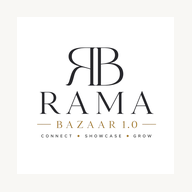
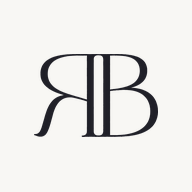
auto-commit for 6581f962-8773-4887-ab63-8e82492fd1b0

Changed region(s): [[0.1562, 0.2188, 0.8438, 0.7188]]

diff --git a/frontend/src/components/Logo.jsx b/frontend/src/components/Logo.jsx
@@ -1,17 +1,114 @@
 import React from "react";
 
-// Use the actual brand logo image. We accept a `variant` prop to switch
-// between the light-background (default) and dark-background versions.
-export default function Logo({ size = "md", variant = "light", className = "" }) {
-  const heights = { sm: 44, md: 88, lg: 140, xl: 220 };
-  const src = variant === "dark" ? "/logo-dark.png" : "/logo.png";
-  return (
+/**
+ * Rama Bazaar 1.0 — Brand Lockup
+ *
+ * Matches the original logo hierarchy:
+ *   1. RB serif emblem
+ *   2. "RAMA" — large serif, charcoal, wide tracking
+ *   3. "—  BAZAAR 1.0  —" — smaller serif sub-mark in gold with hairline rules
+ *   4. CONNECT • SHOWCASE • GROW — small caps tagline
+ */
+const SIZES = {
+  sm: { emblem: 28, rama: 18, sub: 8,  tagline: 7,  gap: 5,  rule: 14 },
+  md: { emblem: 70, rama: 38, sub: 13, tagline: 9,  gap: 9,  rule: 24 },
+  lg: { emblem: 108, rama: 56, sub: 18, tagline: 10, gap: 12, rule: 36 },
+  xl: { emblem: 150, rama: 76, sub: 22, tagline: 11, gap: 16, rule: 44 },
+};
+
+export default function Logo({ size = "md", variant = "stacked", inverse = false, className = "" }) {
+  const s = SIZES[size] || SIZES.md;
+  const ink = inverse ? "#f8f7f4" : "#1f1f27";
+  const gold = "#b2873d";
+
+  const Emblem = (
     <img
-      src={src}
-      alt="Rama Bazaar 1.0"
-      className={`inline-block select-none ${className}`}
-      style={{ height: heights[size] || heights.md, width: "auto", objectFit: "contain" }}
+      src="/rb-emblem.png"
+      alt=""
       draggable={false}
+      style={{
+        height: s.emblem,
+        width: "auto",
+        marginBottom: s.gap,
+        filter: inverse ? "invert(95%) brightness(1.05)" : "none",
+      }}
     />
+  );
+
+  if (variant === "emblem") {
+    return (
+      <img
+        src="/rb-emblem.png"
+        alt="Rama Bazaar"
+        draggable={false}
+        className={`inline-block select-none ${className}`}
+        style={{
+          height: s.emblem,
+          width: "auto",
+          filter: inverse ? "invert(95%) brightness(1.05)" : "none",
+        }}
+      />
+    );
+  }
+
+  return (
+    <div className={`inline-flex flex-col items-center ${className}`} aria-label="Rama Bazaar 1.0">
+      {variant === "stacked" && Emblem}
+
+      {/* RAMA — large serif */}
+      <div
+        className="font-serif-display leading-none"
+        style={{
+          color: ink,
+          fontSize: s.rama,
+          letterSpacing: "0.14em",
+          paddingLeft: "0.14em",
+          fontWeight: 500,
+        }}
+      >
+        RAMA
+      </div>
+
+      {/* —  BAZAAR 1.0  — */}
+      <div
+        className="flex items-center flex-nowrap"
+        style={{ marginTop: s.gap * 0.8, gap: s.gap * 0.9 }}
+      >
+        <span style={{ height: 1, width: s.rule, background: gold, display: "inline-block", flexShrink: 0 }} />
+        <span
+          className="font-serif-display whitespace-nowrap"
+          style={{
+            color: gold,
+            fontSize: s.sub,
+            letterSpacing: "0.26em",
+            paddingLeft: "0.26em",
+            fontWeight: 500,
+          }}
+        >
+          BAZAAR&nbsp;1.0
+        </span>
+        <span style={{ height: 1, width: s.rule, background: gold, display: "inline-block", flexShrink: 0 }} />
+      </div>
+
+      {/* CONNECT · SHOWCASE · GROW */}
+      <div
+        className="flex items-center"
+        style={{
+          marginTop: s.gap * 1.1,
+          gap: s.gap * 0.7,
+          color: ink,
+          fontSize: s.tagline,
+          letterSpacing: "0.38em",
+          paddingLeft: "0.38em",
+          fontWeight: 500,
+        }}
+      >
+        <span>CONNECT</span>
+        <span style={{ color: gold }}>•</span>
+        <span>SHOWCASE</span>
+        <span style={{ color: gold }}>•</span>
+        <span>GROW</span>
+      </div>
+    </div>
   );
 }